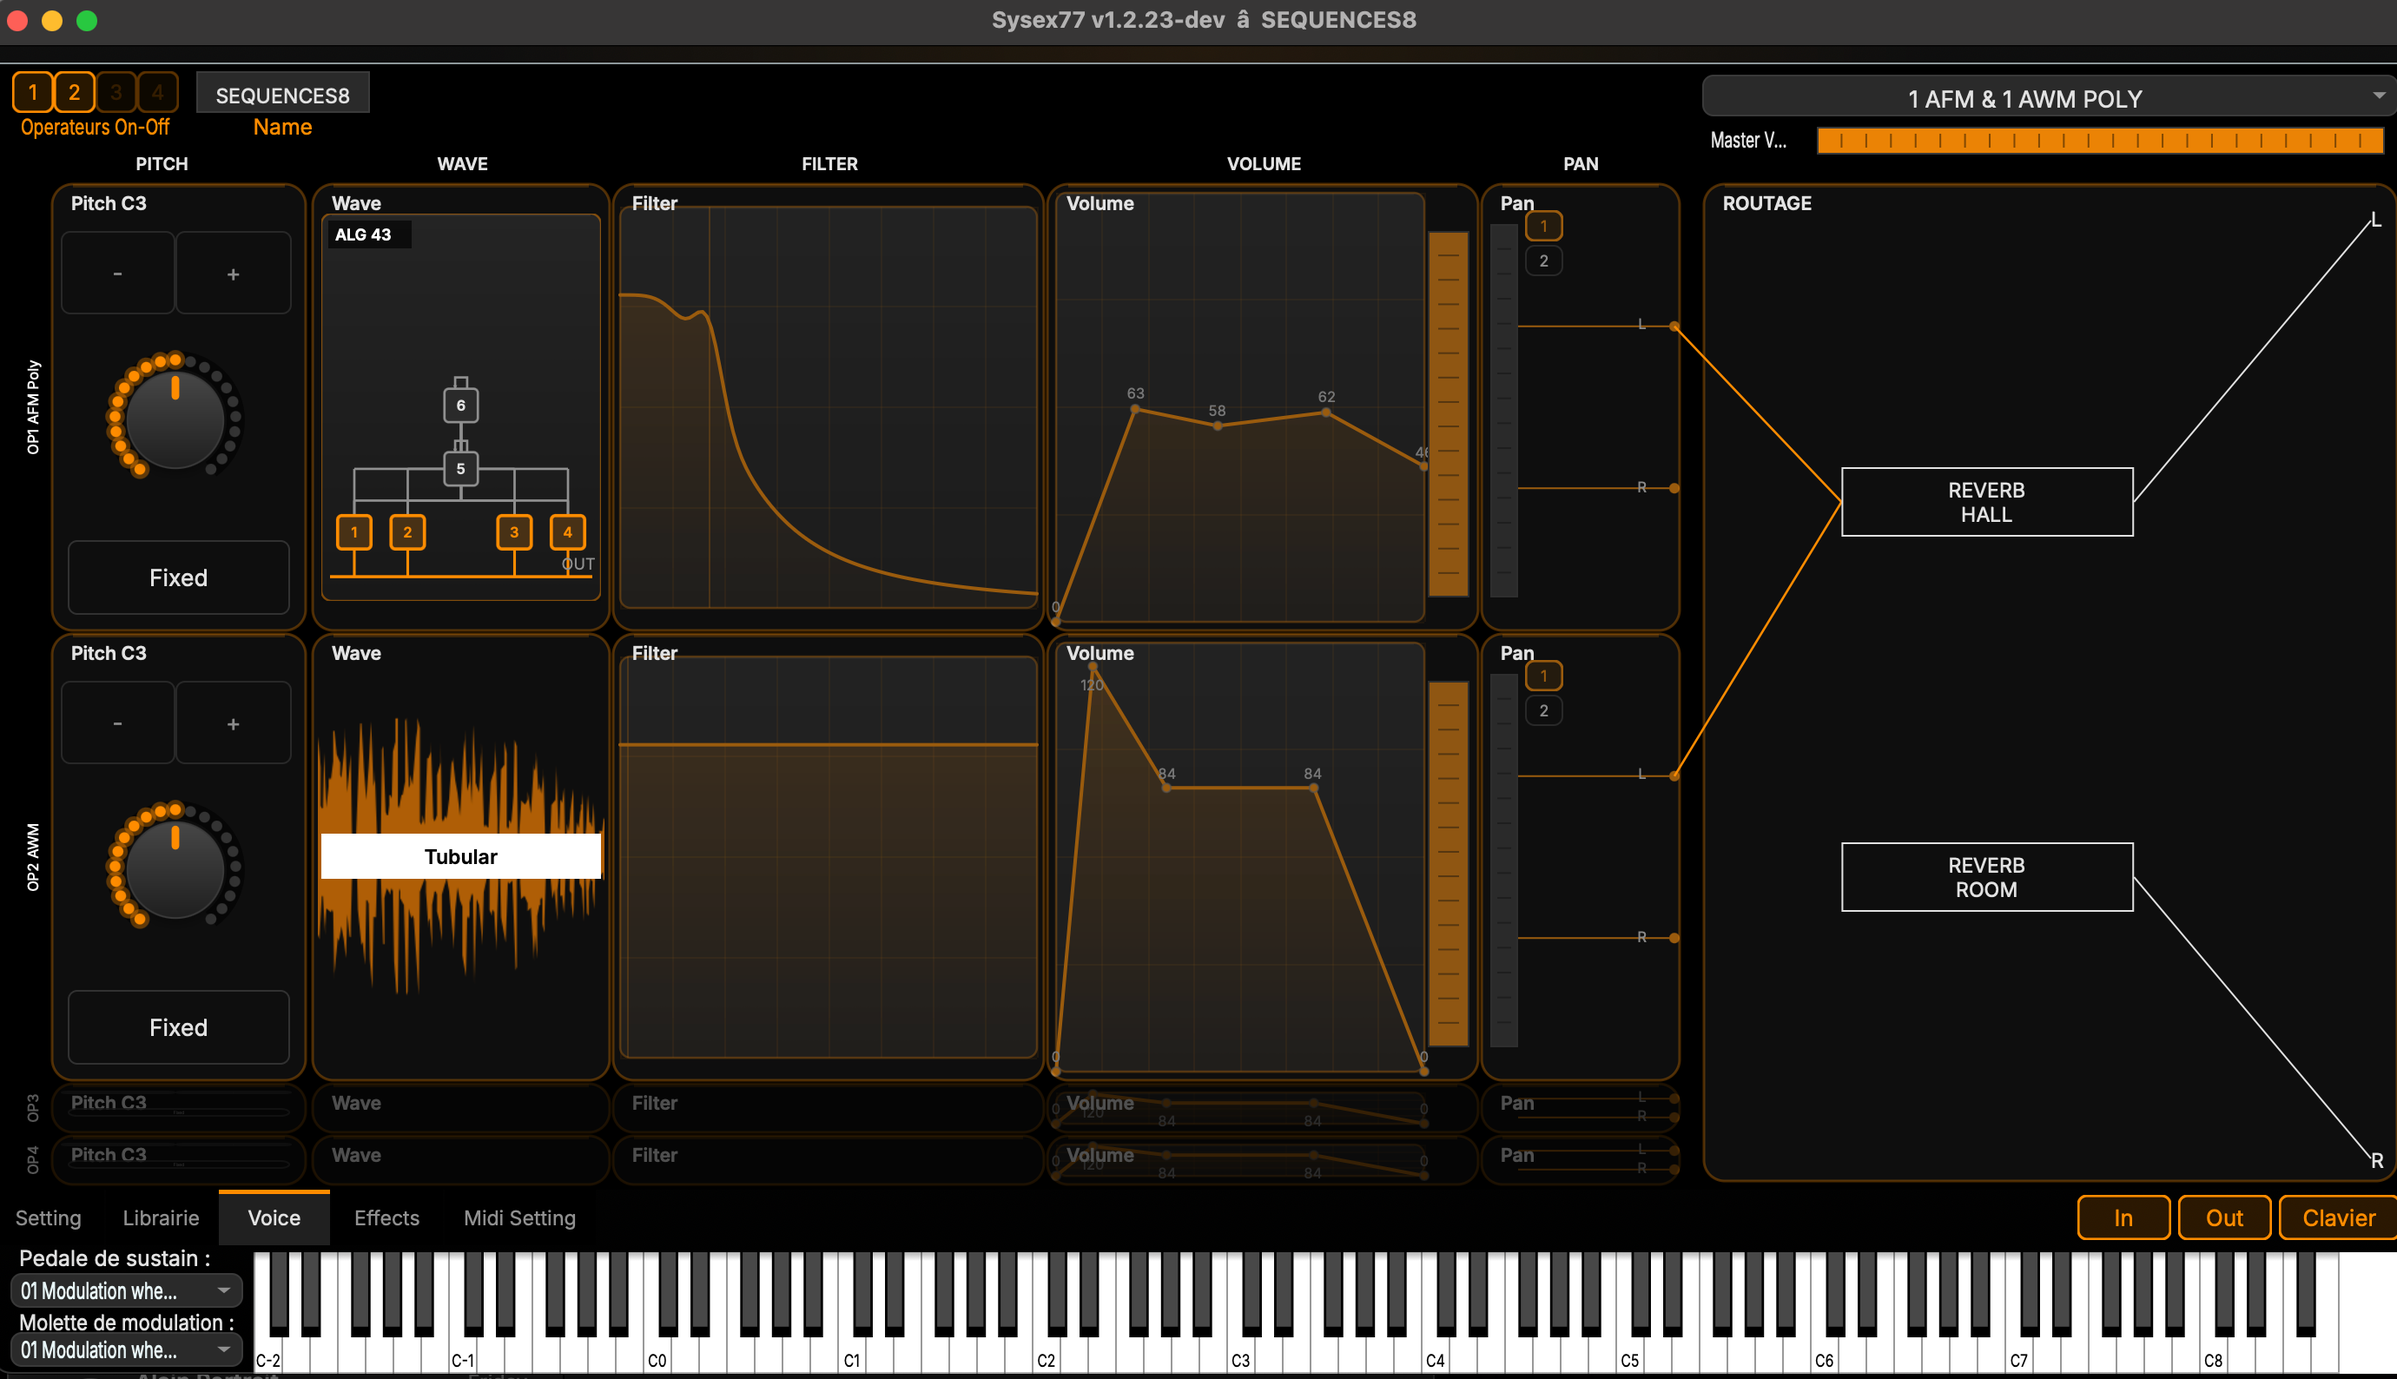
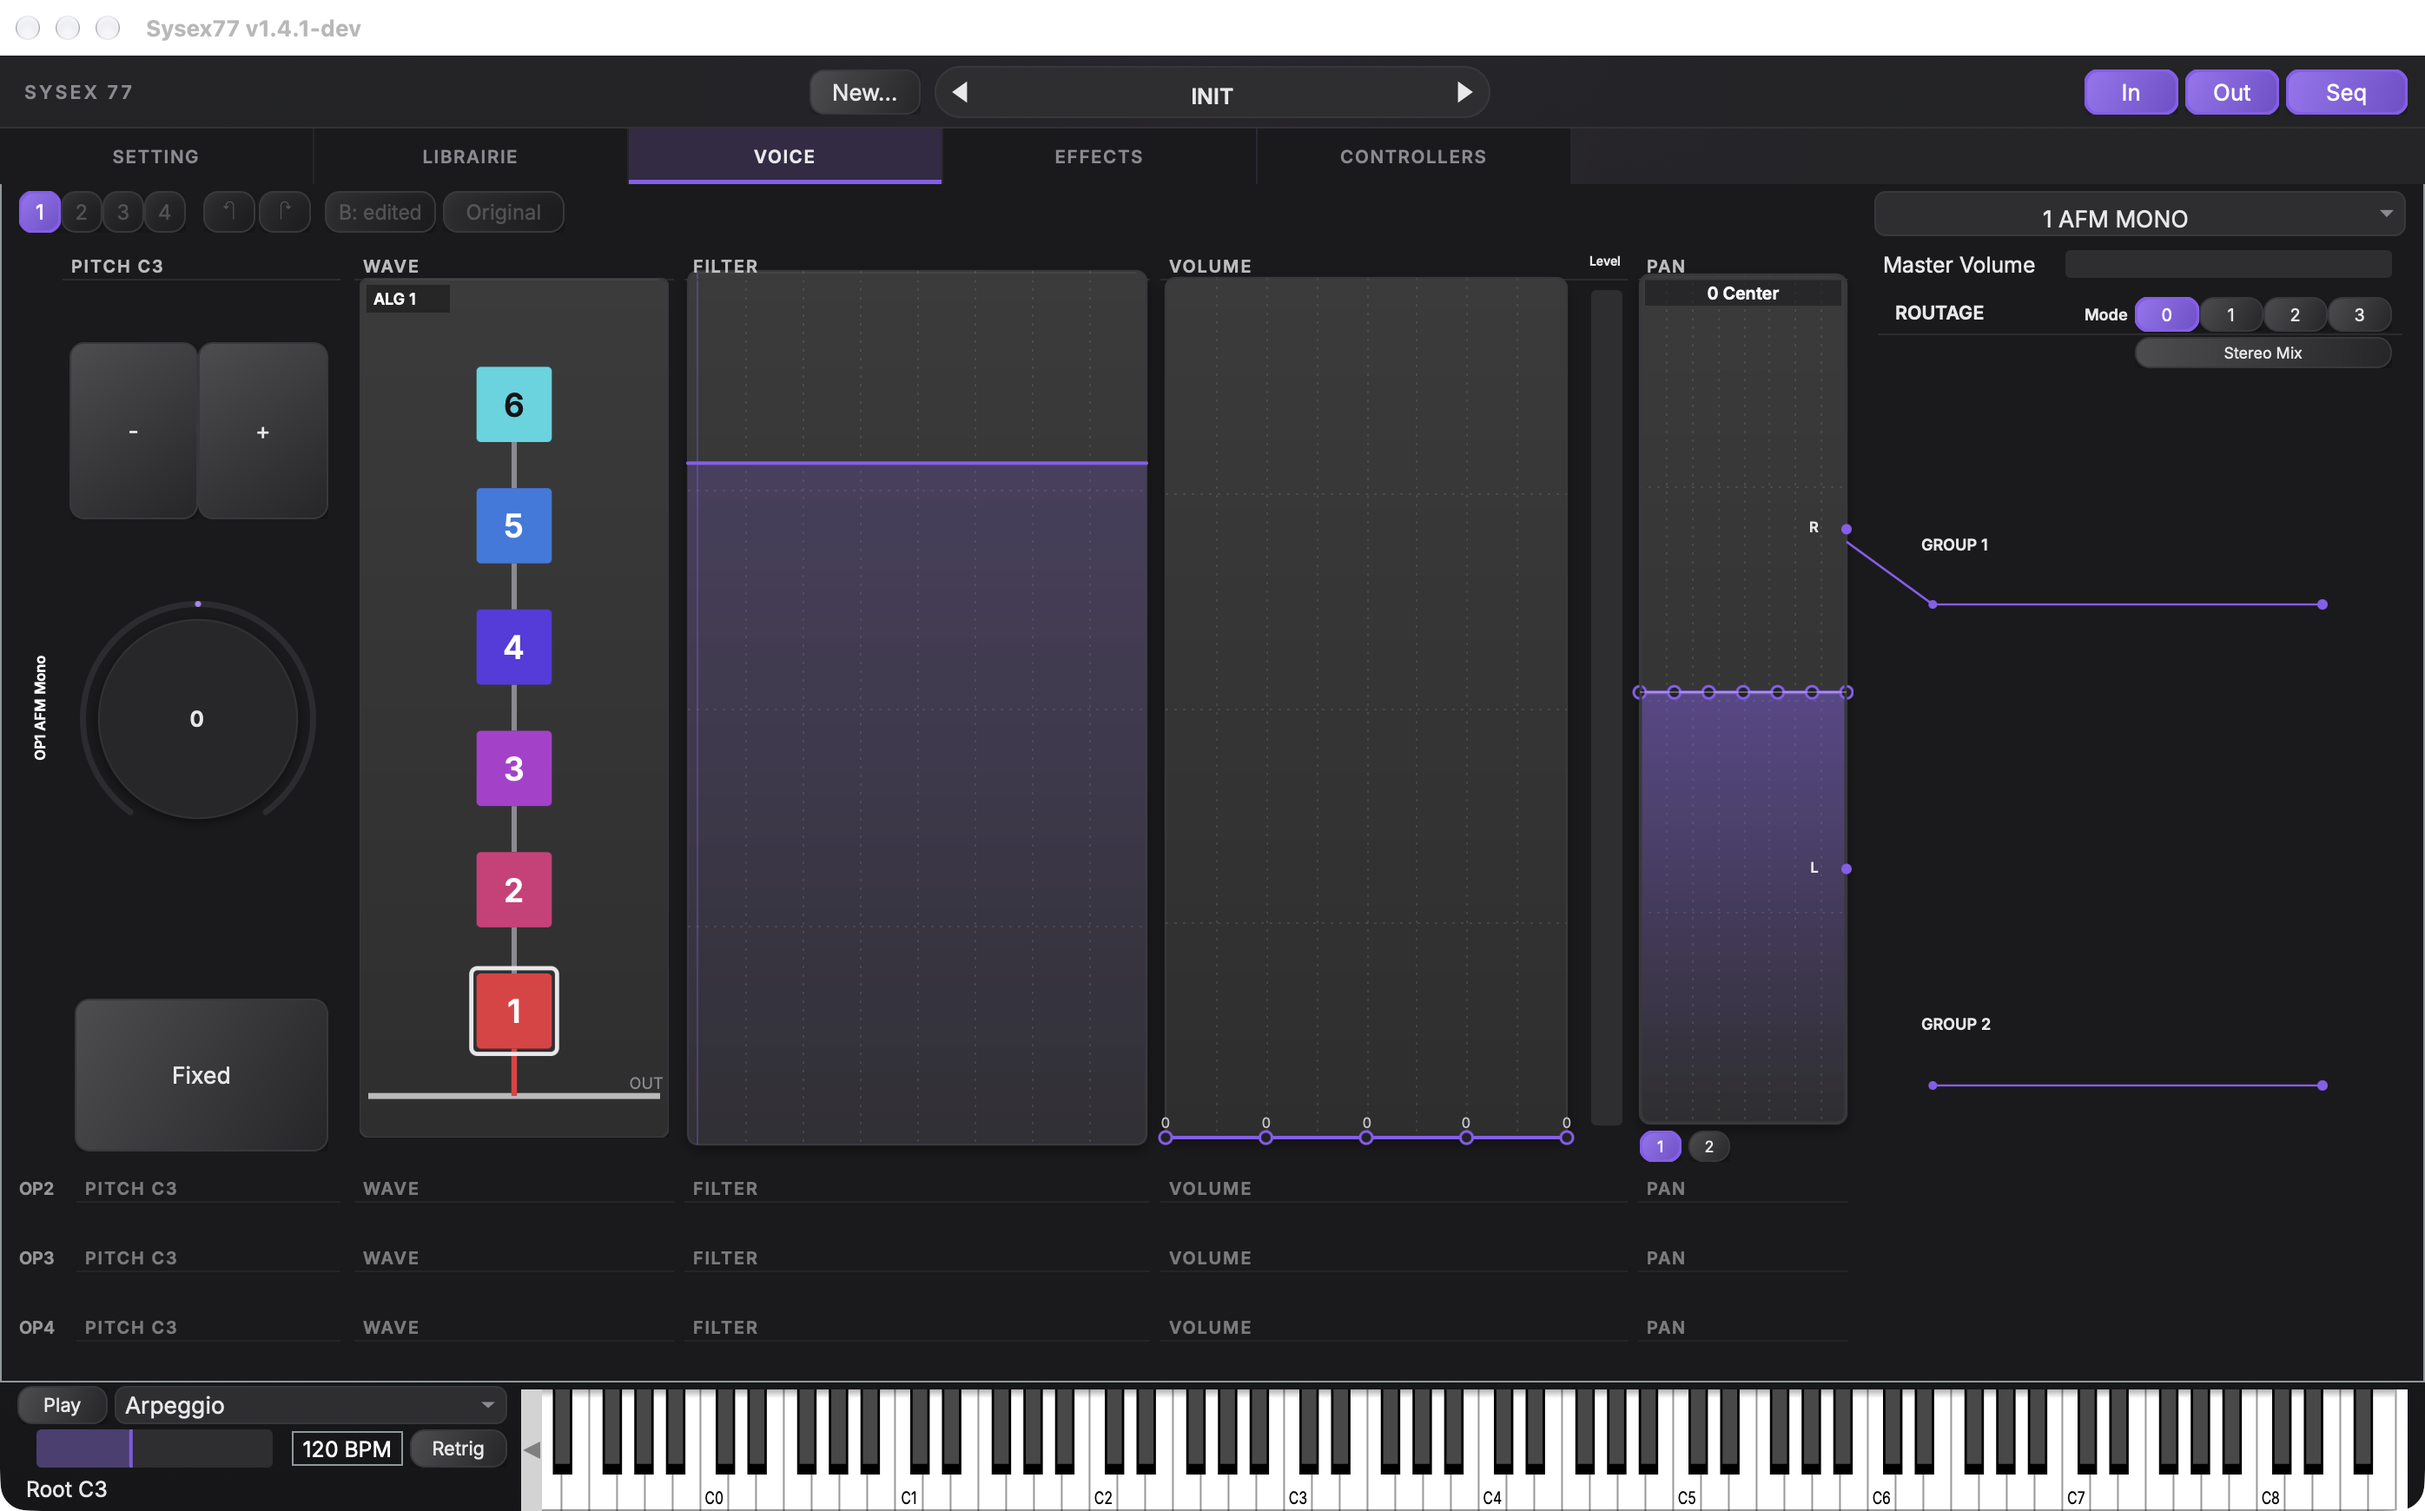
docs : README (FR + EN) et ROADMAP pour v1.5.0, capture de l'éditeur (Indigo Night)

diff --git a/README.md b/README.md
@@ -18,6 +18,10 @@ Inspiré, côté fonctionnalités, de l'éditeur *SynthWorks SY77*.
 ## Fonctionnalités
 
 - **Éditeur de voix** AFM / AWM : opérateurs, oscillateurs, filtres, enveloppes, pan.
+- **Interface repensée** : **bandeau supérieur** permanent (nom de la voix, flèches voix
+  précédente/suivante, *New…*, indicateurs In/Out/Seq), **onglets en haut**, écran Voice épuré,
+  en-tête **« < Voice »** commun à tous les éditeurs (re-clic sur VOICE ou Échap pour fermer),
+  boutons désactivés clairement visibles.
 - **Rendu de la forme d'onde FM** reproduisant la topologie réelle des **45 algorithmes** du SY77.
 - **Édition à la souris des graphes** : glisser sur la réponse du **filtre** (cutoff/résonance) et
   sur les nœuds des **enveloppes** (niveau + rate) — vignettes d'élément et éditeurs complets.
@@ -141,8 +145,11 @@ sur le synthé) pour autoriser les échanges de banques.
 
 ### Thèmes
 
-L'onglet *Setting* propose un sélecteur de thème. Cinq palettes sont intégrées (*Dark Orange*,
-*FM Dark*, *Light*, *Crimson*, *Tangerine*). Au premier lancement, elles sont exportées en tant
+L'onglet *Setting* propose un sélecteur de thème. Six palettes sont intégrées (*Dark Orange*,
+*FM Dark*, *Light*, *Crimson*, *Tangerine* et **Indigo Night**, un thème « studio » : potards à
+arc fin, barres plates, une couleur par opérateur, enveloppes redessinées). Le **Theme Builder**
+permet en plus de choisir les **couleurs d'opérateurs** (*Monochrome*, *Spectre*, *Pastel*,
+*Neon*, *Chaud* ou *Personnalisé*). Au premier lancement, elles sont exportées en tant
 que fichiers éditables dans :
 
 ```
@@ -180,7 +187,9 @@ On launch: pick your MIDI interface, then the device number (channel) in *Settin
 protect to allow bank exchanges. The Library sends/receives sound banks (`.SYX`) with a progress
 bar; double-clicking a voice auditions it on the synth (edit buffer) and opens it in the editor.
 
-Highlights: AFM/AWM voice editor, FM-waveform render of the real 45 algorithms, mouse-editable
+Highlights: AFM/AWM voice editor with a redesigned UI (persistent top bar with voice name,
+prev/next voice arrows, New..., In/Out/Seq indicators; tabs on top; a common "< Voice" header in
+every editor, closed by clicking VOICE again or Esc), FM-waveform render of the real 45 algorithms, mouse-editable
 filter & envelope graphs (right-click reset/copy/paste, Shift fine, AFM EG loop point & hold),
 graphical level scaling, algorithm input shift/output correction, a Controllers tab (pitch bend,
 modulation, pan, bias, portamento, micro tuning), AWM pitch EG/LFO/hold, configurable keyboard
@@ -196,8 +205,10 @@ stay SY77-only). **Built-in updater**: checks GitHub Releases on launch and can 
 the new version automatically (macOS; opt-out in *Setting*; opens the release page on Windows/Linux). Some editor edits are state-only for
 now (full sysex send is being firmed up).
 
-**Themes:** five built-in palettes (Dark Orange, FM Dark, Light, Crimson, Tangerine), selectable
-in *Setting*. On first launch, editable `theme.xml` files are exported to
+**Themes:** six built-in palettes (Dark Orange, FM Dark, Light, Crimson, Tangerine and the
+"studio" **Indigo Night**: thin-arc knobs, flat bars, per-operator colours, redrawn envelopes),
+selectable in *Setting*; the **Theme Builder** adds operator colour schemes (Monochrome, Spectre,
+Pastel, Neon, Chaud, Personnalise). On first launch, editable `theme.xml` files are exported to
 `~/Library/Application Support/Sysex77/Themes/`. Add a subfolder with your own `theme.xml` to
 create a custom theme; hit **Reload** in *Setting* to pick it up without restarting.
 

diff --git a/ROADMAP.md b/ROADMAP.md
@@ -112,6 +112,15 @@ Sortir de `MidiDemo` (2000+ lignes) la session d'édition de la voix ouverte (hi
 ---
 
 ## Journal
+- **2026-11-09 (v1.5.0 — release : thème Indigo Night, bandeau, annuler/A-B)** — Release minor.
+  Depuis v1.4.0 : thème intégré **Indigo Night** (style studio : potard « thin », barres « field »,
+  couleur par opérateur, enveloppes redessinées), **Theme Builder** avec couleurs d'opérateurs
+  (Monochrome/Spectre/Pastel/Neon/Chaud/Personnalisé), **bandeau supérieur** (nom de voix, voix
+  préc./suiv., New..., In/Out/Seq), onglets en haut, écran Voice épuré, en-tête « < Voice » commun
+  (re-clic VOICE / Échap ferment), raccourcis (voix/banques, Cmd+B, Cmd+N, aide Cmd+/), nouvelle
+  voix depuis un modèle, **annuler/rétablir + A/B** sysex, séquenceur de phrases + canal de jeu,
+  CI 3 OS. Correctifs : bloc non redirigeable vers l'edit buffer refusé, A/B/undo, boutons
+  désactivés visibles ; refactor `VoiceSession`. README (FR + EN) mis à jour.
 - **2026-11-09 (architecture — découpage MidiDemo, étapes 2-4)** — `VoiceSession` branchée dans
   MidiDemo (un seul changement : observeOutgoing dans sendToOutputs avant le gate Out, sendParams/
   applyingHistory dans la session, openVoiceBlock = coque UI autour de `loadBlock`, noteRx via
